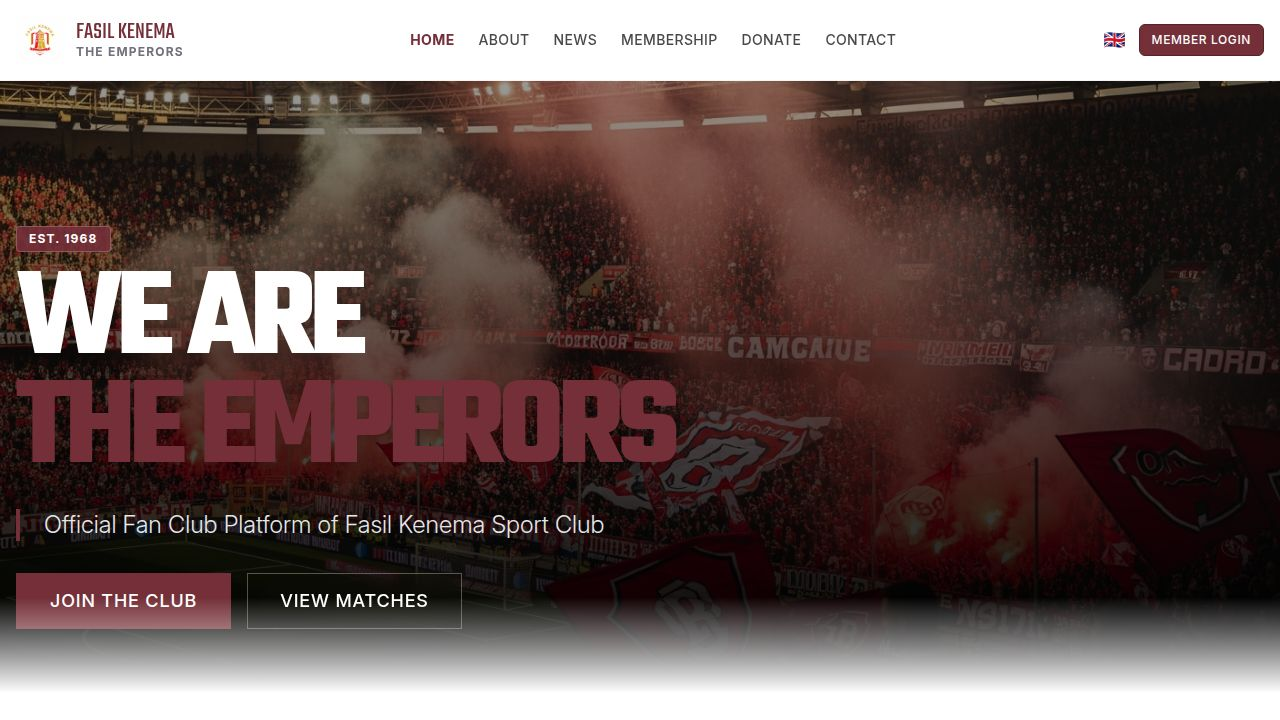
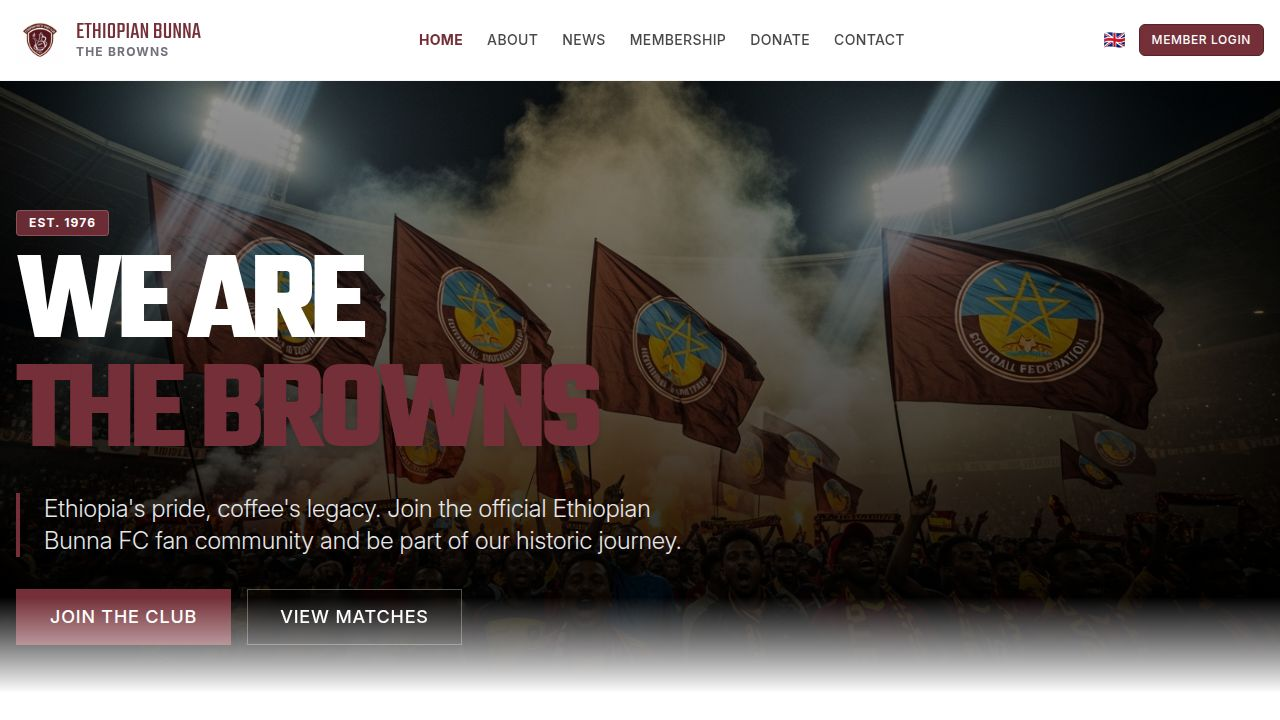
Update blog images to feature Ethiopian Bunna FC branding
Replaces generic blog post images with specific Ethiopian Bunna FC themed images in `mockData.ts` and adds new image assets.

Replit-Commit-Author: Agent
Replit-Commit-Session-Id: fc7b8f51-f712-4c41-a5b6-2f5927027017
Replit-Commit-Checkpoint-Type: full_checkpoint
Replit-Commit-Event-Id: efb07ef3-bbcb-475b-a797-033e4704015b
Replit-Commit-Screenshot-Url: https://storage.googleapis.com/screenshot-production-us-central1/7fc2801c-c281-489e-8401-03e739563079/fc7b8f51-f712-4c41-a5b6-2f5927027017/61JPugc

diff --git a/client/src/lib/mockData.ts b/client/src/lib/mockData.ts
@@ -1,12 +1,11 @@
 import logoImg from '@assets/generated_images/ethiopian_bunna_fc_logo.png';
 import heroImg from '@assets/generated_images/maroon_brown_stadium_atmosphere.png';
-import news1Img from '@assets/generated_images/football_players_celebrating.png';
-import news2Img from '@assets/generated_images/coach_on_sidelines.png';
-import stadiumFansImg from '@assets/generated_images/ethiopian_football_stadium_fans.png';
-import teamCelebrationImg from '@assets/generated_images/ethiopian_football_team_celebration.png';
-import playerAutographsImg from '@assets/generated_images/ethiopian_player_signing_autographs.png';
-import trainingSessionImg from '@assets/generated_images/ethiopian_football_training_session.png';
-import trophyCelebrationImg from '@assets/generated_images/ethiopian_football_trophy_celebration.png';
+import teamCelebrationImg from '@assets/generated_images/bunna_fc_goal_celebration.png';
+import coachSidelinesImg from '@assets/generated_images/bunna_fc_coach_sidelines.png';
+import stadiumFansImg from '@assets/generated_images/bunna_fc_stadium_fans.png';
+import trophyCelebrationImg from '@assets/generated_images/bunna_fc_trophy_celebration.png';
+import playerAutographsImg from '@assets/generated_images/bunna_fc_player_autographs.png';
+import trainingSessionImg from '@assets/generated_images/bunna_fc_training_session.png';
 
 export const LANGUAGES = [
   { code: 'en', label: 'English', flag: '🇬🇧' },
